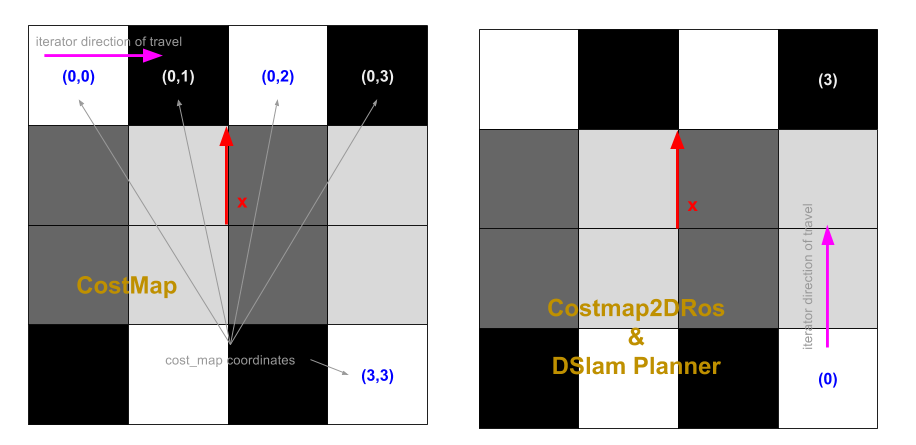
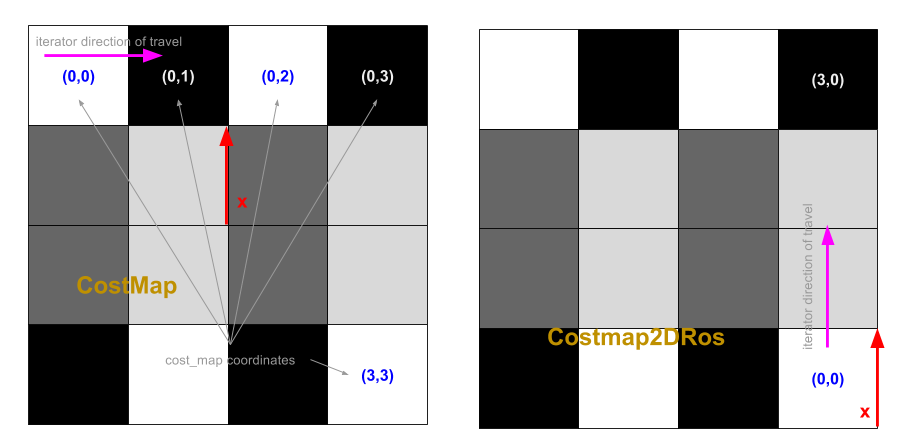
[ros] updated cost map coordinates reference image

diff --git a/README.md b/README.md
@@ -83,6 +83,10 @@ The ROS Navistack uses `costmap_2d::Costmap2DROS` objects and it is sometimes ne
 to make conversions from these to provide new style cost maps to other libraries. Full conversions are possible
 but of special interest is to extract a costmap subwindow around the pose of the robot itself.
 
+### Costmap2DROS vs CostMap
+
+![Differences](cost_map_ros/doc/image_loading_coordinates.png)
+
 ### Costmap2DROS Demo
 
 Costmap2DROS | Full/Partial Copies
